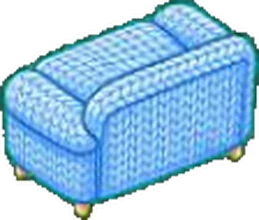
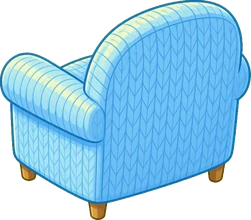
Add files via upload

diff --git a/js/iso.js b/js/iso.js
@@ -130,7 +130,7 @@ const STK={};
 /* AI 그림 가구 (img/fu): 소품(emo) + 아래 목록. w = 칸 너비 대비 그림 너비, fr = 그림이 오른쪽 아래를 봄, b = 뒷모습 그림(_b) 있음.
    방향 d: 0 왼쪽 아래 보기(앞) · 1 오른쪽 아래(앞 뒤집기) · 2 왼쪽 위(뒤 뒤집기) · 3 오른쪽 위(뒤) — 뒷모습이 없으면 앞 그림을 써요. 러그·피크닉 매트는 바닥이라 코드 그림 */
 /* by = 뒷모습 그림이 (안 뒤집었을 때) 왼쪽 위를 보고 길이가 y 방향 (그림마다 달라서 눈으로 확인해 적었어요) */
-const FIMG={chair:{w:.62,b:1},sofa:{w:.7},shelf:{w:.98},piano:{w:.9,b:1,by:1},bench:{w:.6},throne:{w:.72},cchair:{w:.58,fr:1,b:1},cboard:{w:.7},skbench:{w:.72},knit:{w:.7},
+const FIMG={chair:{w:.62,b:1},sofa:{w:.7,b:1},shelf:{w:.98},piano:{w:.9,b:1,by:1},bench:{w:.6},throne:{w:.72,b:1},cchair:{w:.58,fr:1,b:1},cboard:{w:.7},skbench:{w:.72,b:1},knit:{w:.7,b:1,by:1},
  table:{w:.9},plant:{w:.6},bear:{w:.72},stand:{w:.62},lamp:{w:.5},tree:{w:.68},tank:{w:.82},ctable:{w:.78},pond:{w:1.05},fire:{w:.9},bcushion:{w:.82},bcart:{w:.95},bflag:{w:.55},bstatue:{w:.62}};
 const FUI={};function ld(src){let im=FUI[src];if(!im){im=new Image();im.decoding='async';im.src=src;FUI[src]=im}return im.complete&&im.naturalWidth?im:null}
 function fuImg(k,back){if(!FK[k]||!(FK[k].emo||FIMG[k]))return null;if(back&&FIMG[k]&&FIMG[k].b){const b=ld('img/fu/'+k+'_b.webp');if(b)return b}return ld('img/fu/'+k+'.webp')}

diff --git a/js/news.js b/js/news.js
@@ -6,6 +6,7 @@
 const NEWS=(()=>{
 const KEY='bpNewsSeen',MUTE='bpNewsMute';
 const L=[
+ {v:'4.4.3',d:'11월 3일',t:['↻ 소파 · 니트 소파 · 벚꽃 벤치 · 왕좌도 뒷모습이 생겨서 4방향으로 돌아가요']},
  {v:'4.4.2',d:'11월 3일',t:['✨ 손님 12종 · 가구 · 가게 외관 그림을 원본으로 다시 만들어서 훨씬 선명해졌어요 (깨져 보이던 테두리도 깔끔하게)']},
  {v:'4.3.7',d:'11월 2일',q:1,t:['🛋 2칸 가구(특히 뒷모습 소파·벤치·피아노)를 돌렸을 때 그림과 칸이 어긋나던 것을 다시 고쳤어요']},
  {v:'4.4',d:'11월 2일',t:['🛋 소파 · 니트 소파 · 벤치 · 벚꽃 벤치가 귀여운 1인용(안락의자·스툴) 그림으로 바뀌고, 다시 1칸 가구가 됐어요 (피아노 · 빵 진열대도 1칸)']},

diff --git a/js/challenge.js b/js/challenge.js
@@ -1,6 +1,6 @@
 /* ===== 화면·저장·조작 (규칙은 위의 BP2에서만 계산) ===== */
 (()=>{
-const B=BP2,R=B.R,W=450,H=800,$=id=>document.getElementById(id),cv=$('cv'),cx=cv.getContext('2d'),fmt=B.fmt,KEY='bungeoppang2Pub1',VER='4.4.2';
+const B=BP2,R=B.R,W=450,H=800,$=id=>document.getElementById(id),cv=$('cv'),cx=cv.getContext('2d'),fmt=B.fmt,KEY='bungeoppang2Pub1',VER='4.4.3';
 let save={};try{save=JSON.parse(localStorage.getItem(KEY))||{}}catch(e){}
 save=Object.assign({nick:'',sub:{id:0,stage:0,net:0},snd:true,runs:0,clears:0,best:{stage:0,net:0},week:{id:0,stage:0,net:0},free:{stage:0,net:0},run:null},save);
 /* 규칙이 바뀌기 전에 하던 판은 이어서 할 수 없어요 (순위표 검증이 맞지 않아서) */

diff --git a/shop.html b/shop.html
@@ -154,13 +154,13 @@ button:active{transform:translateY(3px);box-shadow:0 1px 0 #e0c4a0}
 </div>
 <script src="js/sim.js?v=10"></script>
 <script src="js/art.js?v=16"></script>
-<script src="js/iso.js?v=29"></script>
+<script src="js/iso.js?v=30"></script>
 <script src="js/street.js?v=9"></script>
 <script src="js/filter.js?v=1"></script>
 <script src="js/share.js?v=2"></script>
 <script src="js/biz.js?v=6"></script>
 <script src="js/cafe.js?v=3"></script>
-<script src="js/news.js?v=42"></script>
+<script src="js/news.js?v=43"></script>
 <script src="js/install.js?v=5"></script>
 <script src="js/shop.js?v=44"></script>
 <script type="module" src="js/net.js?v=6"></script>

diff --git a/index.html b/index.html
@@ -104,9 +104,9 @@ button:active{transform:translateY(3px);box-shadow:0 1px 0 #e0c4a0}
 <script src="js/art.js?v=16"></script>
 <script src="js/filter.js?v=1"></script>
 <script src="js/share.js?v=2"></script>
-<script src="js/news.js?v=42"></script>
+<script src="js/news.js?v=43"></script>
 <script src="js/install.js?v=5"></script>
-<script src="js/challenge.js?v=55"></script>
+<script src="js/challenge.js?v=56"></script>
 <script type="module" src="js/lb.js?v=9"></script>
 <script type="module" src="js/xfer.js?v=3"></script>
 </body></html>
